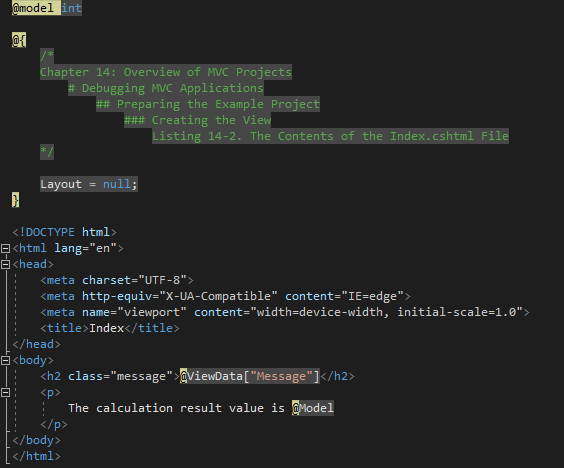
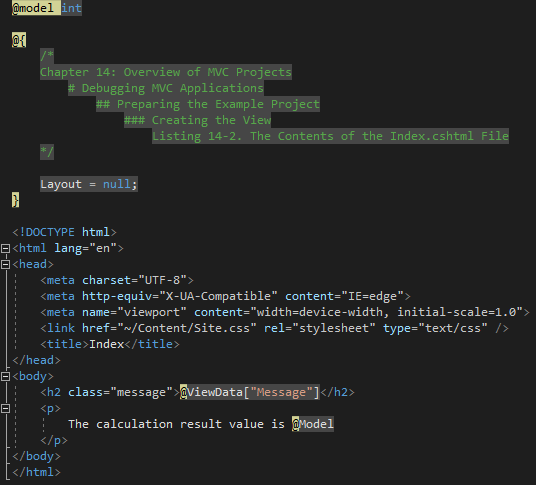
Listing 14-3. Adding a Style to the /Content/Site.css File.
Chapter 14: Overview of MVC Projects
    # Debugging MVC Applications
        ## Preparing the Example Project
            ### Creating the View
                Listing 14-3. Adding a Style to the /Content/Site.css File.

Changed region(s): [[0.0, 0.2991, 0.9851, 1.0], [0.0, 0.0, 0.9552, 0.3291]]

diff --git a/pro-asp-net-mvc/chapter-14/web-app/DebuggingDemo/Content/Site.css b/pro-asp-net-mvc/chapter-14/web-app/DebuggingDemo/Content/Site.css
@@ -1,24 +1,28 @@
-body {
-    padding-top: 50px;
-    padding-bottom: 20px;
-}
-
-/* Set padding to keep content from hitting the edges */
-.body-content {
-    padding-left: 15px;
-    padding-right: 15px;
-}
-
-/* Override the default bootstrap behavior where horizontal description lists 
-   will truncate terms that are too long to fit in the left column 
+/*
+Chapter 14: Overview of MVC Projects
+    # Debugging MVC Applications
+        ## Preparing the Example Project
+            ### Creating the View
+                Listing 14-3. Adding a Style to the /Content/Site.css File.
 */
-.dl-horizontal dt {
-    white-space: normal;
+
+body {
+    padding-top: 5px;
+    padding-bottom: 5px;
 }
 
-/* Set width on the form input elements since they're 100% wide by default */
-input,
-select,
-textarea {
-    max-width: 280px;
+.field-validation-error {
+    color: #b94a48;
+}
+
+.field-validation-valid {
+    display: none;
+}
+
+input.input-validation-error {
+    border: 1px solid #b94a48;
+}
+
+input[type="checkbox"].input-validation-error {
+    border: 0 none;
 }

diff --git a/pro-asp-net-mvc/chapter-14/bb-debugging-mvc-applications.md b/pro-asp-net-mvc/chapter-14/bb-debugging-mvc-applications.md
@@ -29,11 +29,18 @@ Open the *HomeController.cs* file and replace the content to match Listing 14-1.
 </p>  
 
 ### Creating the View
-Open the *View/Home/Index.cshtml* view file and replace the default content to match Listing 14-2.  
+* Open the *View/Home/Index.cshtml* view file and replace the default content to match Listing 14-2.  
 
 <p align="center">
     <img src="ch14-Pictures/Listing 14-2.png" /><br />
     <b>Listing 14-2.</b> The Contents of the Index.cshtml File
+</p>  
+
+* For the last change, open the */Content/Site.css* file and change one of the existing ones, as shown in Listing 14-3.  
+
+<p align="center">
+    <img src="ch14-Pictures/Listing 14-3.png" /><br />
+    <b>Listing 14-3.</b> Adding a Style to the /Content/Site.css File.
 </p>  
 
 <!--
@@ -41,7 +48,7 @@ Chapter 14: Overview of MVC Projects
     # Debugging MVC Applications
         ## Preparing the Example Project
             ### Creating the View
-                Listing 14-2. The Contents of the Index.cshtml File
+                Listing 14-3. Adding a Style to the /Content/Site.css File.
 -->
 ## Launching the Visual Studio Debugger
 ## Causing the Visual Studio Debugger to Break
